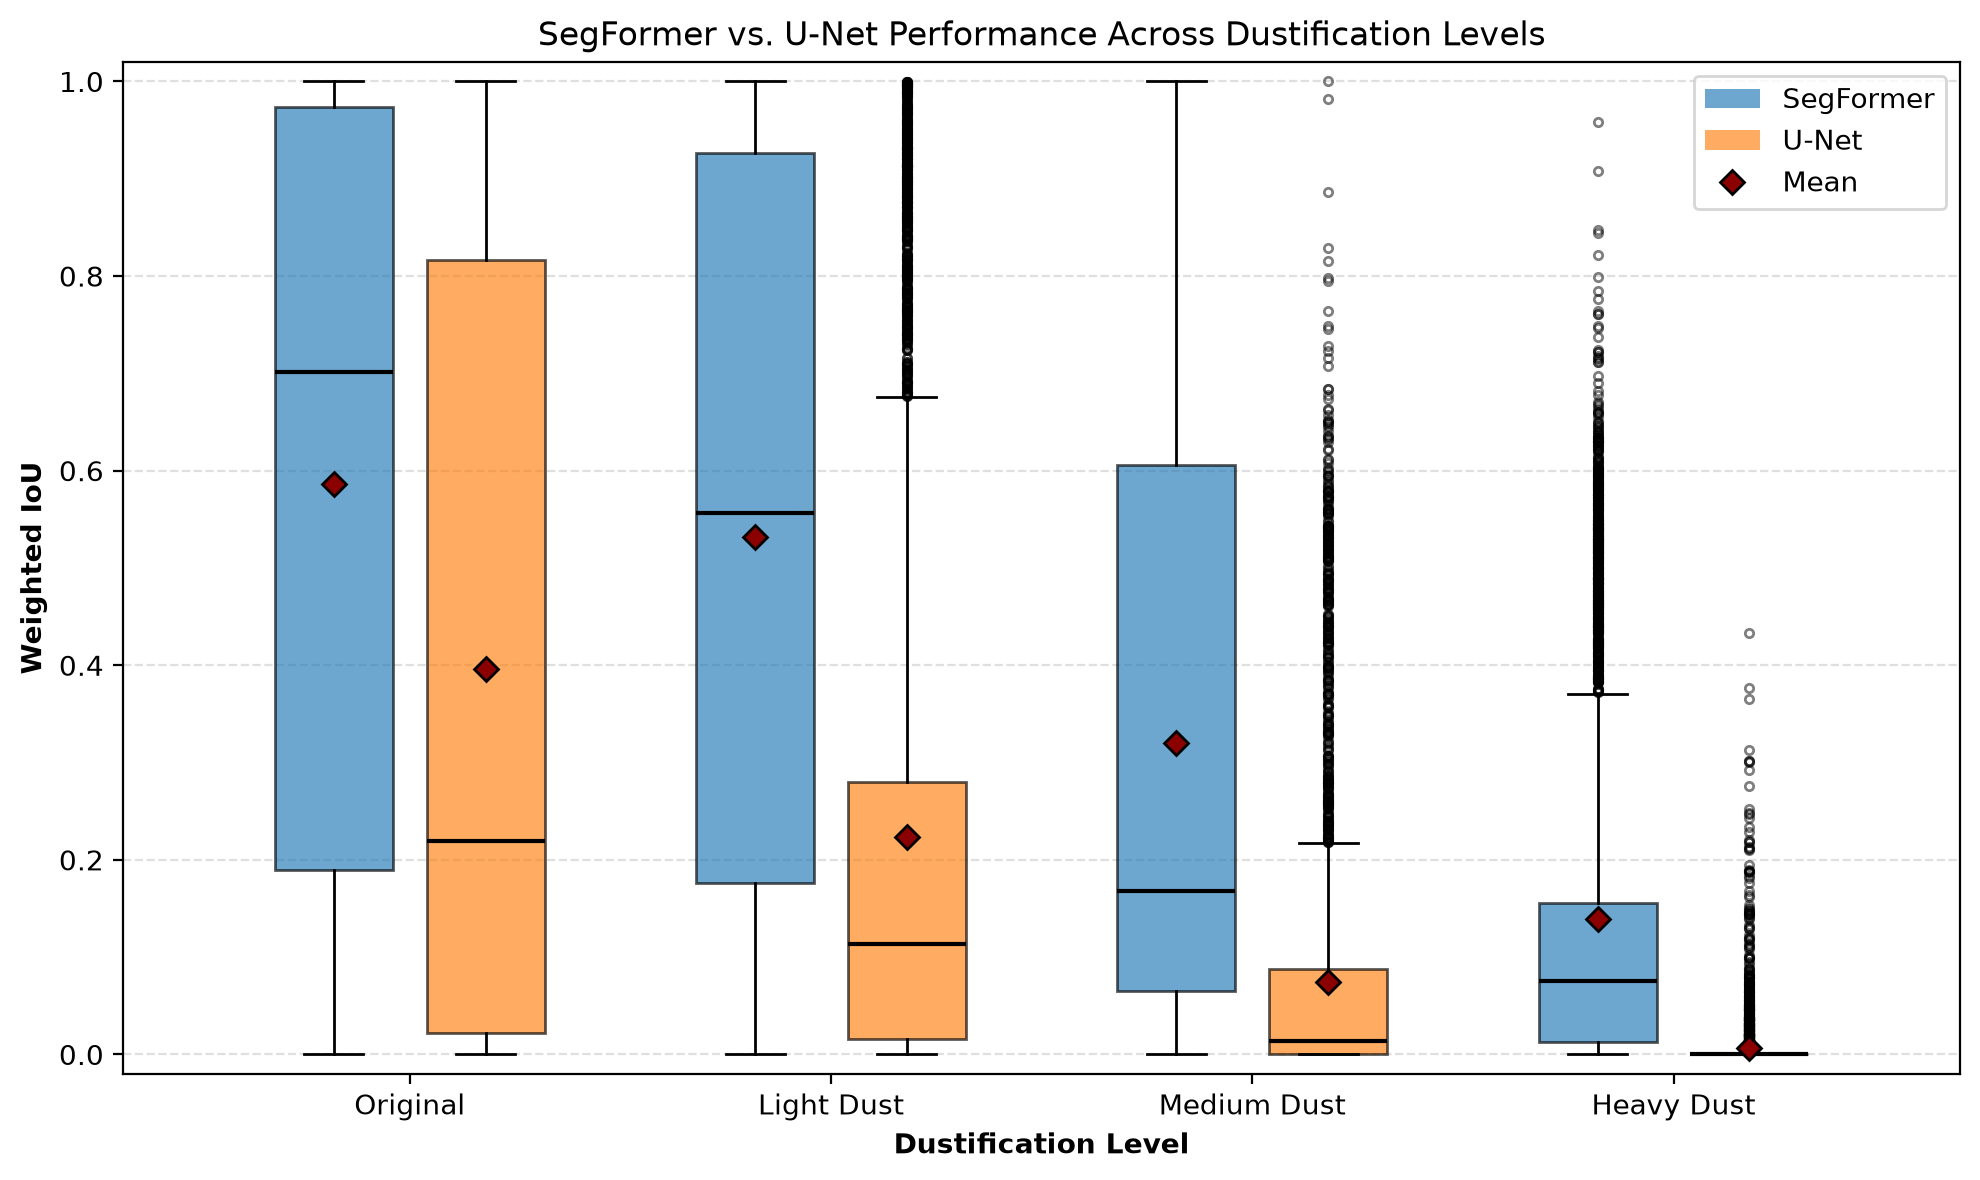
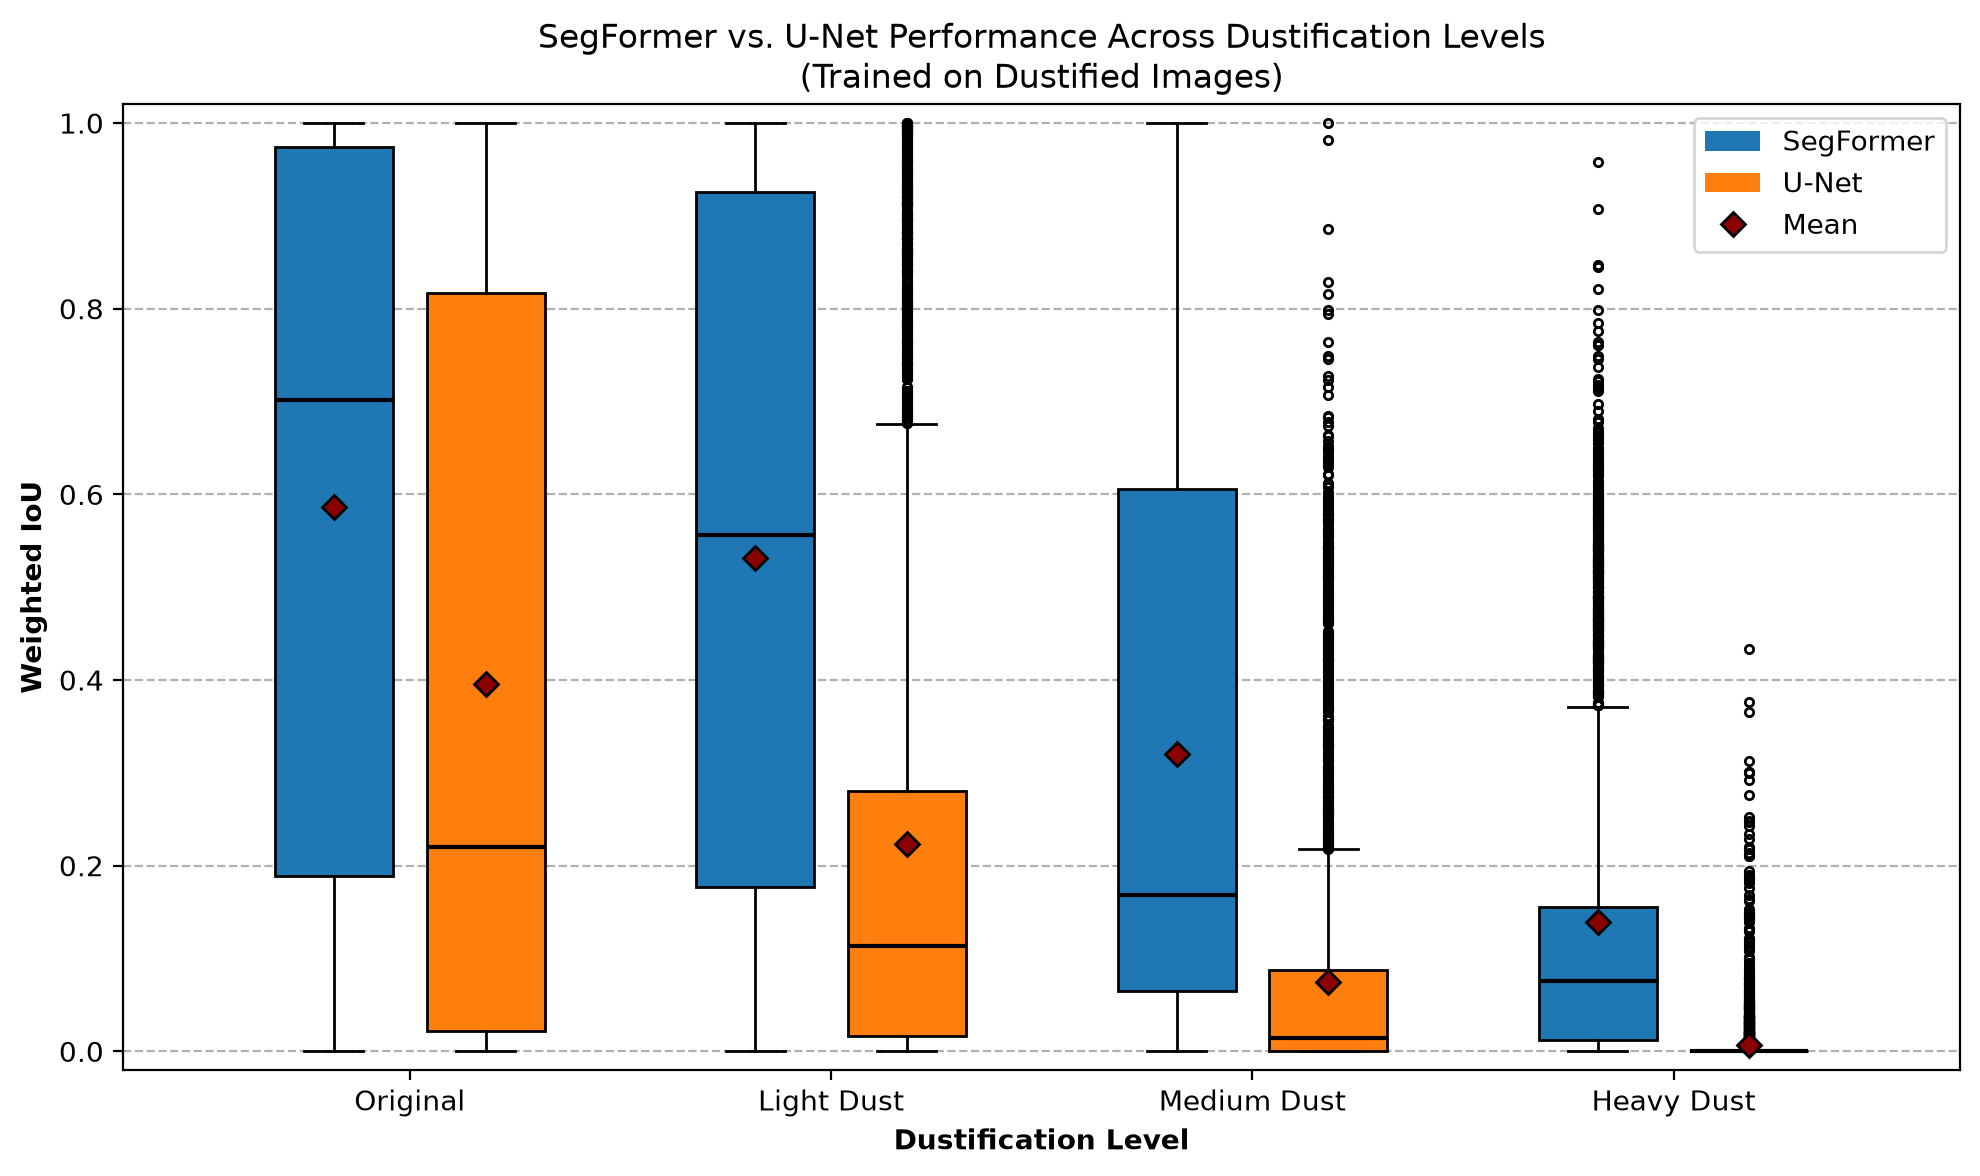
added isaac's figures on comparisons

diff --git a/final_weighted_iou_comparison/weighted_iou_normalized_comparison.py b/final_weighted_iou_comparison/weighted_iou_normalized_comparison.py
@@ -1,0 +1,83 @@
+"""
+Compare SegFormer and U-Net mean weighted IoU relative to the expected
+random-prediction weighted IoU across dustification levels.
+"""
+
+from pathlib import Path
+import csv
+import numpy as np
+import matplotlib.pyplot as plt
+
+folder = Path(__file__).resolve().parent
+SEGFORMER_CSV = folder / "Seg_metrics_collapsed(dust).csv"
+UNET_CSV = folder / "Unet_metrics_collapsed(dust).csv"
+OUTPUT_PATH = folder / "weighted_iou_normalized_comparison(dust).png"
+
+COLUMNS = ["weighted_iou_clean", "weighted_iou_light", "weighted_iou_medium", "weighted_iou_heavy"]
+DISPLAY_LABELS = ["Original", "Light Dust", "Medium Dust", "Heavy Dust"]
+
+# Expected weighted IoU for independent, frequency-matched random predictions.
+CLASS_PROPORTIONS = np.array([0.20658, 0.27078, 0.06877, 0.00465], dtype=float)
+CLASS_PROPORTIONS /= np.sum(CLASS_PROPORTIONS)
+weights = 1 / CLASS_PROPORTIONS
+weights /= np.sum(weights)
+expected_ious = CLASS_PROPORTIONS / (2 - CLASS_PROPORTIONS)
+expected_weighted_iou = np.sum(weights * expected_ious)
+
+
+def load_weighted_iou_csv(path):
+    data = {column: [] for column in COLUMNS}
+    with open(path, "r", newline="") as f:
+        reader = csv.DictReader(f)
+        for row in reader:
+            for column in COLUMNS:
+                value = row[column].strip()
+                if value:
+                    number = float(value)
+                    if np.isfinite(number):
+                        data[column].append(number)
+    return {column: np.asarray(values, dtype=float) for column, values in data.items()}
+
+
+def plot_normalized_means(segformer_data, unet_data):
+    x = np.arange(1, len(COLUMNS) + 1)
+    segformer_means = np.array([np.mean(segformer_data[c]) for c in COLUMNS])
+    unet_means = np.array([np.mean(unet_data[c]) for c in COLUMNS])
+
+    if not np.all(np.isfinite(segformer_means)) or not np.all(np.isfinite(unet_means)):
+        raise ValueError("One or more dustification levels contain no valid scores.")
+
+    fig, ax = plt.subplots(figsize=(10, 6))
+    bar_width = 0.35
+
+    ax.bar(x - bar_width/2, segformer_means / expected_weighted_iou,
+        width=bar_width, color="C0", label="SegFormer")
+
+    ax.bar(x + bar_width/2, unet_means / expected_weighted_iou,
+        width=bar_width, color="C1", label="U-Net")
+    ax.axhline(1, color="gray", linestyle="--", linewidth=1.5,
+               label="Random-Prediction Baseline")
+
+    ax.set_xticks(x)
+    ax.set_xticklabels(DISPLAY_LABELS)
+    ax.set_xlabel("Dustification Level", fontweight="bold")
+    ax.set_ylabel(r"$M[\mathrm{mWIoU}]\,/\,E[\mathrm{mWIoU}]$", fontweight="bold")
+    ax.set_title("SegFormer vs. U-Net Performance Relative to Random Baseline\n(Trained on Dustified Images)")
+    ax.grid(axis="y", linestyle="--", alpha=0.4)
+    ax.set_axisbelow(True)
+    ax.legend(loc="best")
+    plt.tight_layout()
+    plt.savefig(OUTPUT_PATH, dpi=200, bbox_inches="tight")
+    plt.close(fig)
+
+
+def main():
+    print(f"Expected weighted IoU: {expected_weighted_iou:.6f}")
+    segformer_data = load_weighted_iou_csv(SEGFORMER_CSV)
+    unet_data = load_weighted_iou_csv(UNET_CSV)
+    plot_normalized_means(segformer_data, unet_data)
+    print(f"Saved plot to {OUTPUT_PATH}")
+
+
+if __name__ == "__main__":
+    main()

diff --git a/final_weighted_iou_comparison/compare_weighted_ious.py b/final_weighted_iou_comparison/compare_weighted_ious.py
@@ -88,7 +88,7 @@ def plot_weighted_iou(segformer_data, unet_data):
         flierprops={
             "marker": "o",
             "markersize": 3,
-            "alpha": 0.5
+            "alpha": 1
         },
         showmeans=True,
         meanprops={
@@ -110,7 +110,7 @@ def plot_weighted_iou(segformer_data, unet_data):
         flierprops={
             "marker": "o",
             "markersize": 3,
-            "alpha": 0.5
+            "alpha": 1
         },
         showmeans=True,
         meanprops={
@@ -123,11 +123,11 @@ def plot_weighted_iou(segformer_data, unet_data):
 
     for box in segformer_boxes["boxes"]:
         box.set_facecolor("C0")
-        box.set_alpha(0.65)
+        box.set_alpha(1)
 
     for box in unet_boxes["boxes"]:
         box.set_facecolor("C1")
-        box.set_alpha(0.65)
+        box.set_alpha(1)
 
     # Axes
     ax.set_xticks(x)
@@ -138,16 +138,16 @@ def plot_weighted_iou(segformer_data, unet_data):
 
     ax.set_ylim(-0.02, 1.02)
 
-    ax.set_title("SegFormer vs. U-Net Performance Across Dustification Levels")
+    ax.set_title("SegFormer vs. U-Net Performance Across Dustification Levels\n(Trained on Dustified Images)")
 
-    ax.grid(axis="y", linestyle="--", alpha=0.4)
+    ax.grid(axis="y", linestyle="--", alpha=1)
 
     ax.set_axisbelow(True)
 
     # Legend
     legend = [
-        Patch(facecolor="C0", alpha=0.65, label="SegFormer"),
-        Patch(facecolor="C1", alpha=0.65, label="U-Net"),
+        Patch(facecolor="C0", alpha=1, label="SegFormer"),
+        Patch(facecolor="C1", alpha=1, label="U-Net"),
         Line2D([0], [0], marker="D", color="none",
            markerfacecolor="darkred", markeredgecolor="black",
            markersize=6, label="Mean")

diff --git a/final_weighted_iou_comparison/csv_fixer.py b/final_weighted_iou_comparison/csv_fixer.py
@@ -2,8 +2,8 @@ import pandas as pd
 from pathlib import Path
 
 ROOT = Path(__file__).resolve().parent.parent
-SEGFORMER_CSV = ROOT / "Segformer" / "results" / "model6_crowd" / "per_image_scores_long.csv"
-UNET_CSV = ROOT / "U-Net" / "results-2" / "dust_metrics.csv"
+SEGFORMER_CSV = ROOT / "Segformer" / "results" / "model7(dust)_crowd" / "per_image_scores_long.csv"
+UNET_CSV = ROOT / "U-Net" / "results-3" / "dust_metrics.csv"
 csv_files = [SEGFORMER_CSV, UNET_CSV]
 
 levels = {
@@ -54,5 +54,5 @@ for file, df in dataframes.items():
     df = df[df["image"].isin(valid_images)]
     df = df.sort_values("image").reset_index(drop=True)
 
-    output = ROOT / "final_weighted_iou_comparison" / f"{file.stem}_collapsed.csv"
+    output = ROOT / "final_weighted_iou_comparison" / f"{file.stem}_collapsed(dust).csv"
     df.to_csv(output, index=False)
